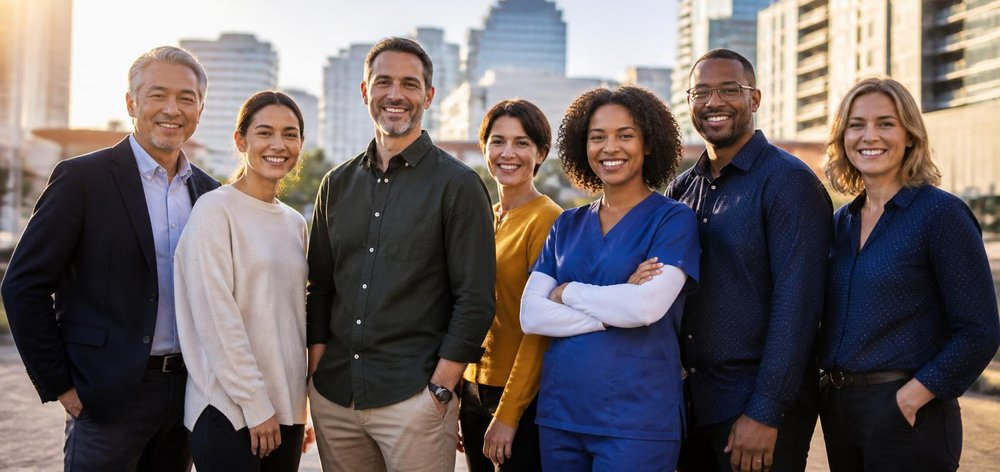
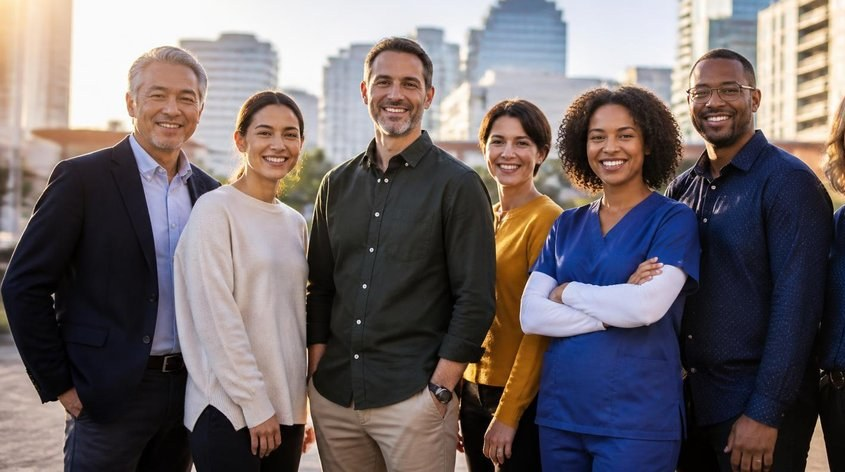
Remove rightmost person and fix a real CSS bug in the hero photo
The woman on the right edge was showing half-cropped. Cropped her
out of the source image entirely (845x472, was 1000x472) rather than
fighting object-fit math, since the actual root cause turned out to
be a CSS bug: object-position: top 78% is invalid (top belongs in the
Y-axis slot, not X - the browser was silently discarding it and using
the 50% 50% default the whole time, so none of the positioning
tweaks were doing anything). Fixed to object-position: center top,
plus a mobile-specific 65% top since mobile's much narrower container
aspect needs its own crop to keep every remaining person whole.

diff --git a/frontend/style.css b/frontend/style.css
@@ -745,8 +745,12 @@ footer {
   width: 100%;
   height: 100%;
   object-fit: cover;
-  object-position: top center;
+  object-position: center top;
   display: block;
+}
+
+@media (max-width: 859px) {
+  .hero-photo img { object-position: 65% top; }
 }
 
 .floating-card {
